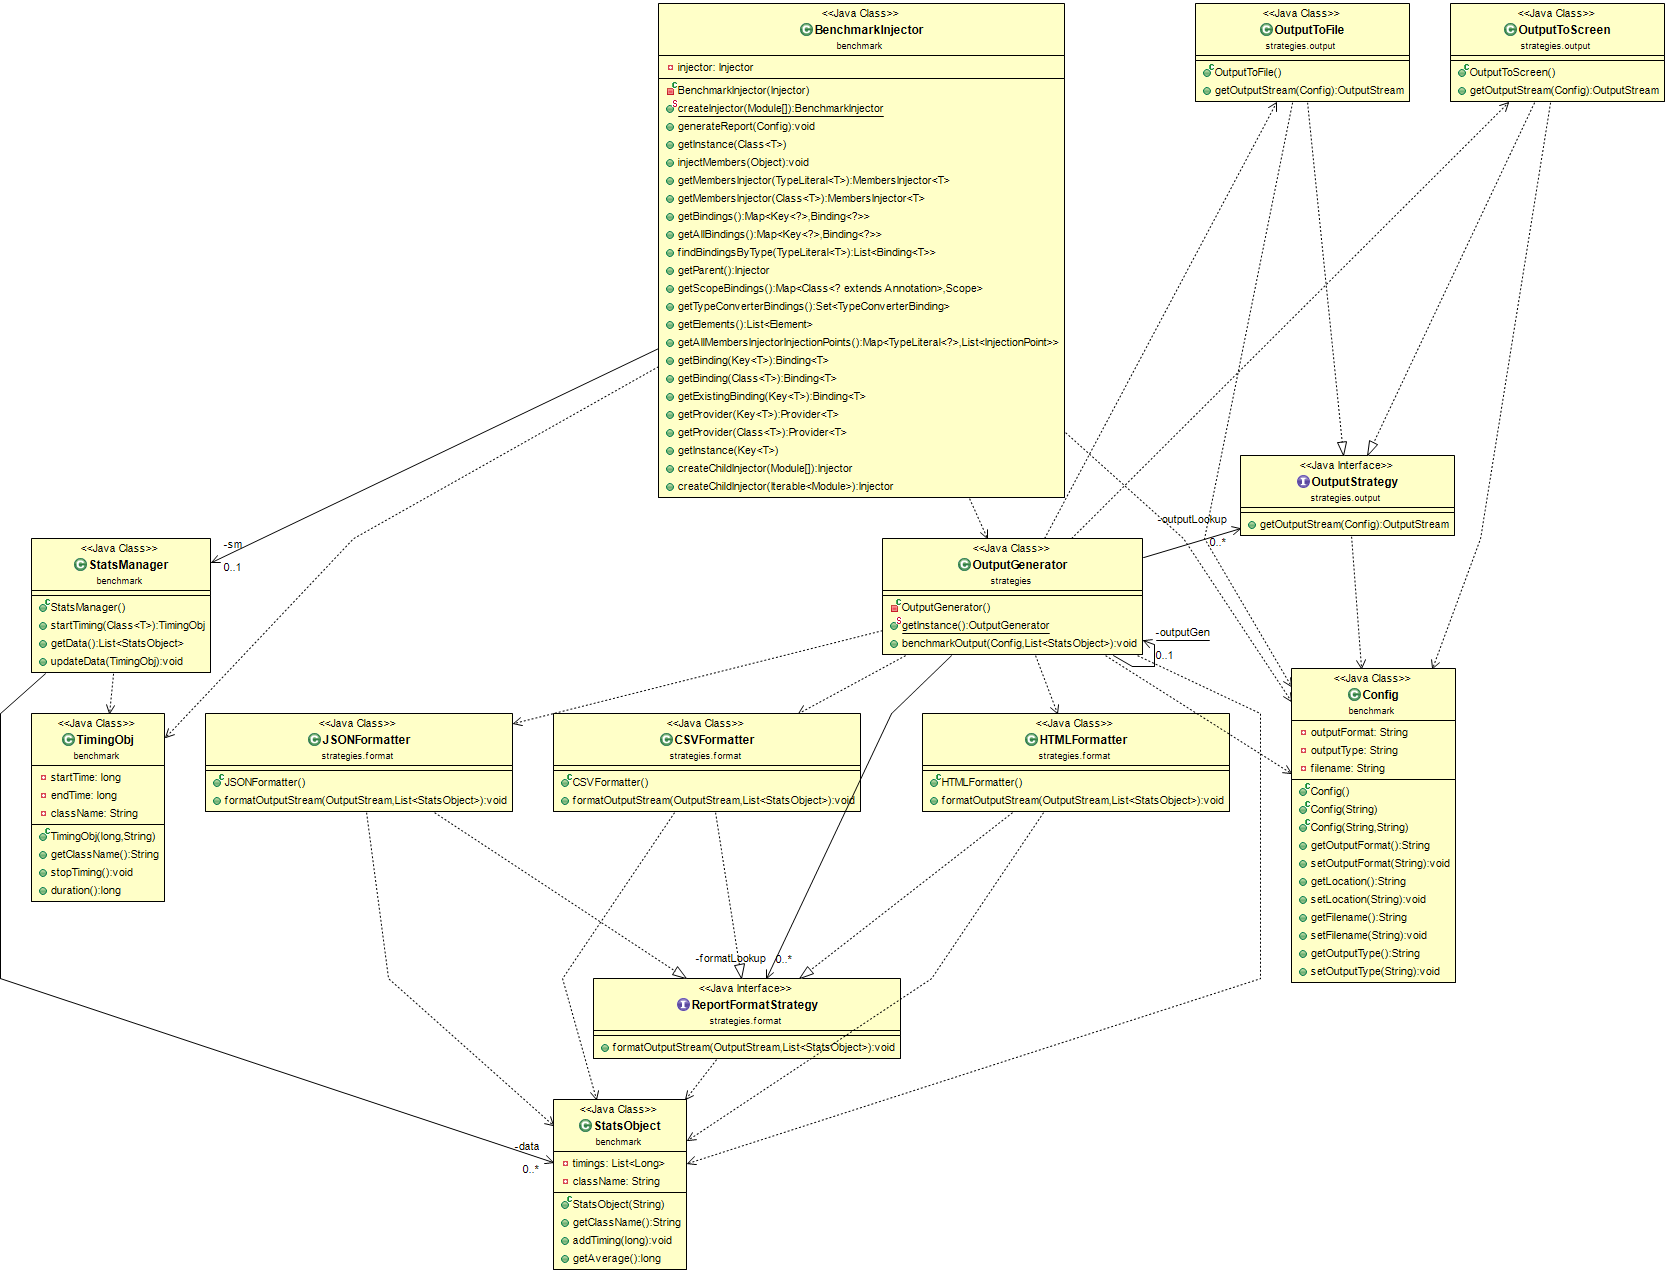
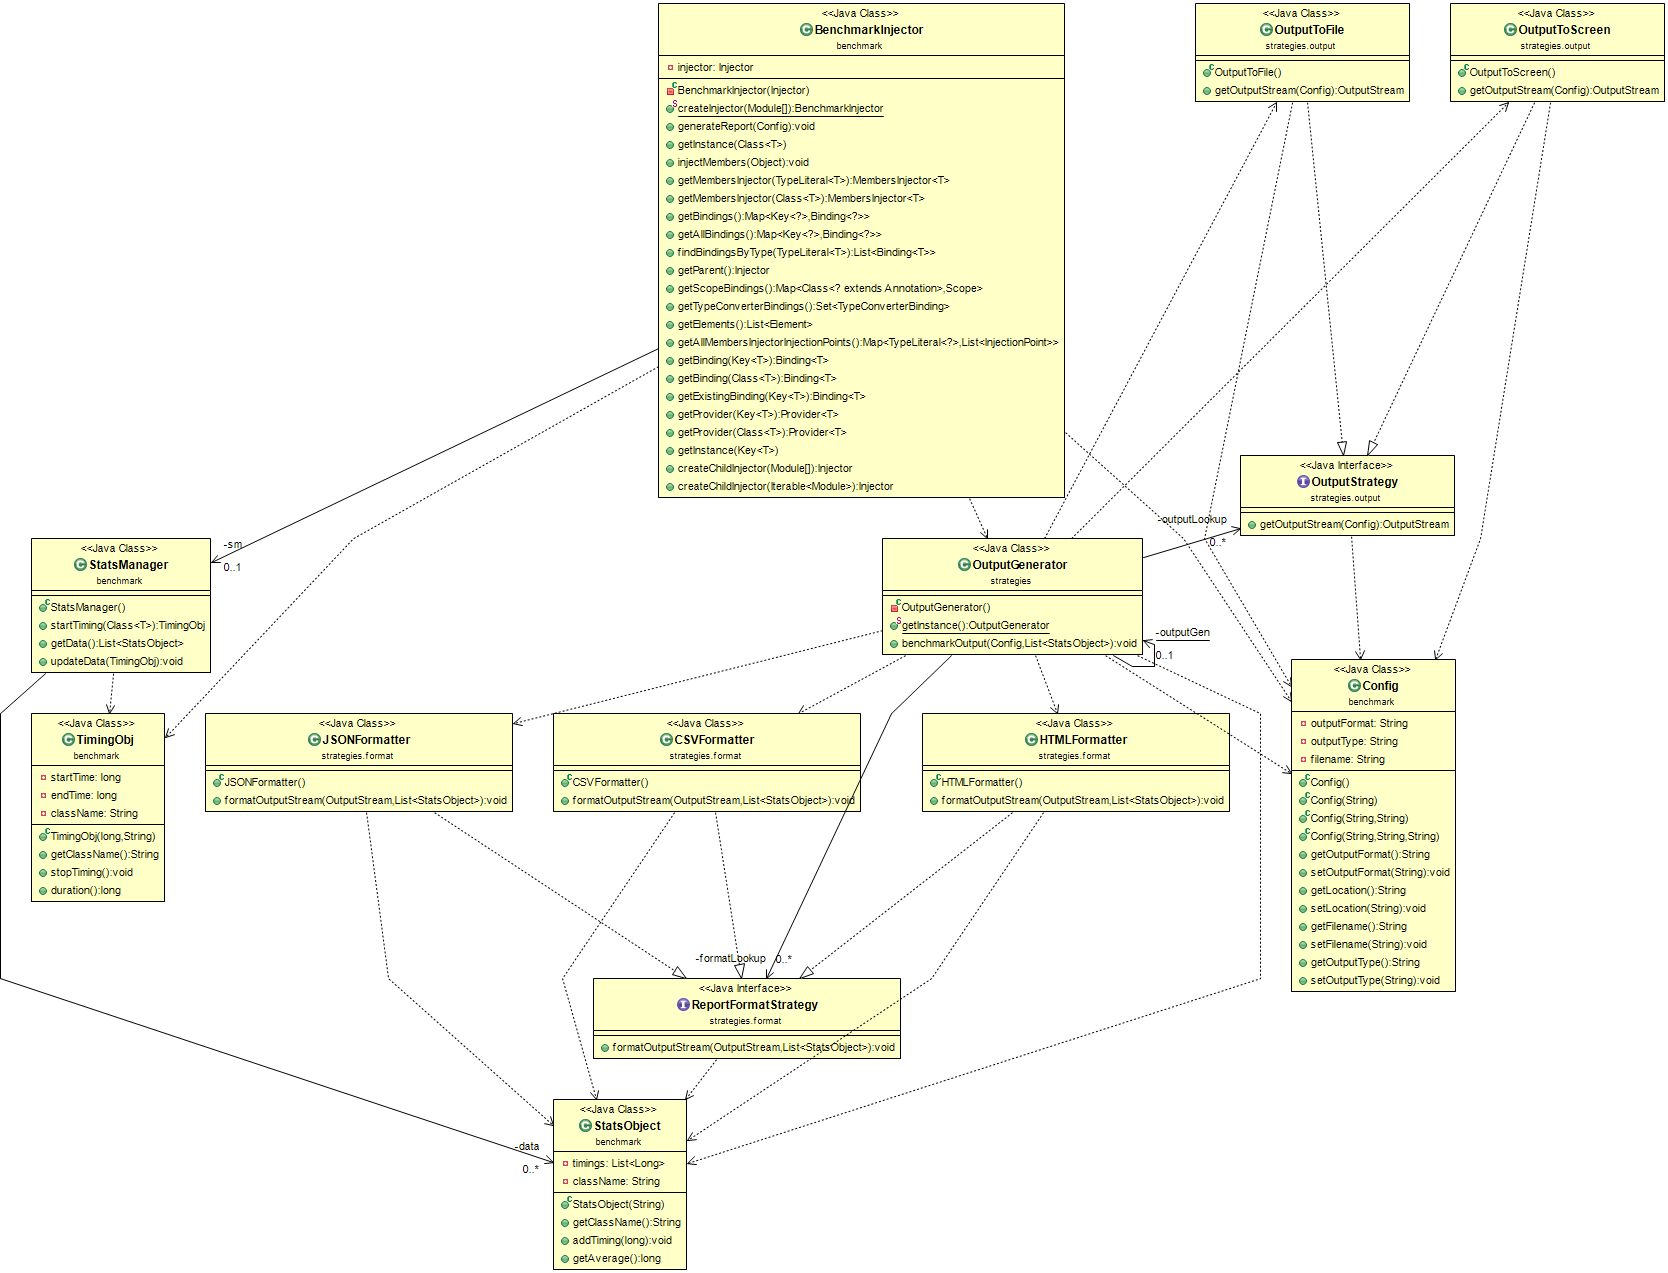
Update to OutputGenerator and Config class

Changed region(s): [[0.7794, 0.4902, 0.8729, 0.7965]]

diff --git a/guice-benchmark/src/benchmark/Config.java b/guice-benchmark/src/benchmark/Config.java
@@ -26,6 +26,12 @@ public class Config {
 		this.outputFormat = outputFormat;
 		this.outputType = location;
 	}
+	
+	public Config(String outputFormat, String outputType, String filename) {
+		this.outputFormat = outputFormat;
+		this.outputType = outputType;
+		this.filename = filename;
+	}
 
 	/**
 	 * @return the outputFormat
